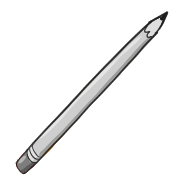
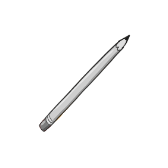
Resize projectile for homogeneity - update projectile script to adapt availlable projectile based on level

Changed region(s): [[0.0595, 0.0595, 0.9226, 0.9524]]

diff --git a/GMTK Game Jam/Assets/Scripts/Entities/Projectile.cs b/GMTK Game Jam/Assets/Scripts/Entities/Projectile.cs
@@ -5,7 +5,8 @@ using UnityEngine;
 public class Projectile : Entity
 {
     [SerializeField] private float lifeTime;
-    [SerializeField] List<Sprite> sprites;
+    [SerializeField] List<Sprite> spritesGrey;
+    [SerializeField] List<Sprite> spritesColor;
     [SerializeField] SpriteRenderer spriteRenderer;
 
     [SerializeField] private GameObject throwHitSounds;
@@ -16,8 +17,17 @@ public class Projectile : Entity
 
     private void Start()
     {
-        int index = Random.Range(0, sprites.Count);
-        spriteRenderer.sprite = sprites[index];
+        if(UnityEngine.SceneManagement.SceneManager.GetActiveScene().name == "Level2")
+        {
+            int index = Random.Range(0, spritesGrey.Count);
+            spriteRenderer.sprite = spritesGrey[index];
+        }
+        else
+        {
+            int index = Random.Range(0, spritesColor.Count);
+            spriteRenderer.sprite = spritesColor[index];
+        }
+        
     }
 
     public void Update()
